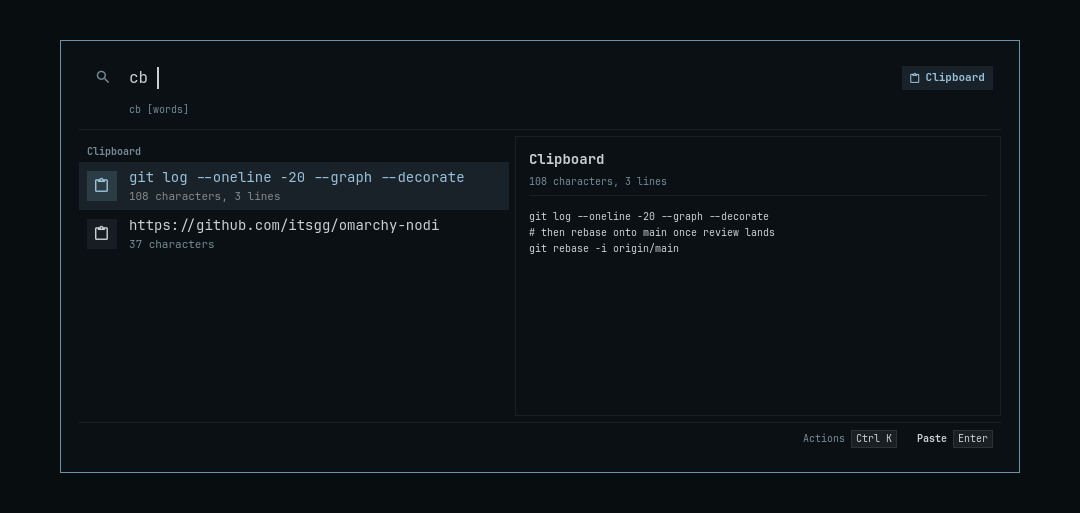
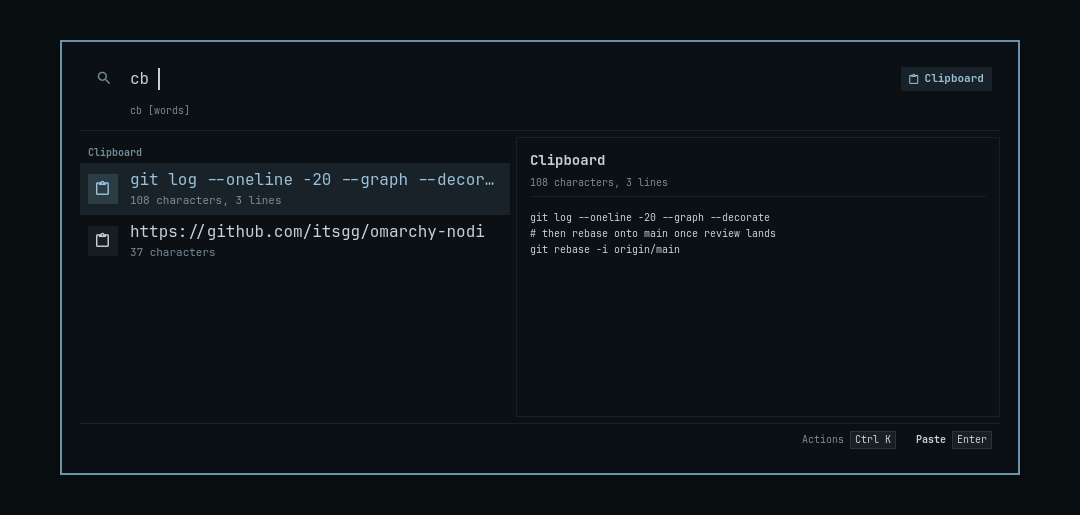
look: the menu's row names, 52 px rows and a 2 px border

diff --git a/components/Look.qml b/components/Look.qml
@@ -13,7 +13,8 @@ QtObject {
   property color background: Color.menu.background
   property color foreground: Color.menu.text
   property color border: Color.menu.border
-  property var borderSpec: Border.surfaceSpec("menu", "border", border, Style.spacing.hairline)
+  // Two pixels, as the shell's popups draw theirs (Menu.qml, Clipboard.qml).
+  property var borderSpec: Border.surfaceSpec("menu", "border", border, Math.max(1, Style.space(2)))
   // The selected row's border, as Omarchy's menu draws it (Menu.qml): none
   // in a theme that sets no [menu] selected-border, as most do (item 24).
   readonly property var selectedBorderSpec: Border.surfaceSpec("menu", "selected-border", Color.menu.selectedBorder, 0)
@@ -42,7 +43,10 @@ QtObject {
   property int contentMargin: Style.spacing.panelPadding
   readonly property int inputFont: Style.font.heading
   property int inputHeight: Math.max(Style.space(38), inputFont + Style.spacing.controlPaddingY * 2)
-  property int rowHeight: Math.max(Style.space(48), Style.font.title + Style.font.bodySmall + Style.spacing.md * 2)
+  // A heading-size name over a small subtitle needs about 8 px above and
+  // below: 48 crowded the two lines, and the menu's 58 cost 70 px on a full
+  // list (renders compared 2026-10-05).
+  property int rowHeight: Math.max(Style.space(52), Style.font.heading + Style.font.bodySmall + Style.spacing.md * 2)
   property int heroHeight: Math.max(Style.space(76), Style.font.displayLarge + Style.font.bodySmall + Style.spacing.md * 3)
   property int sectionHeight: Math.max(Style.space(26), Style.font.caption + Style.spacing.md * 2)
   property int footerHeight: Math.max(Style.space(32), Style.font.caption + Style.spacing.md * 2)

diff --git a/components/ResultRow.qml b/components/ResultRow.qml
@@ -100,8 +100,10 @@ Item {
         text: rowItem.modelData.title
         color: rowItem.selected ? nodi.selectedInk : nodi.foreground
         font.family: nodi.fontFamily
-        font.pixelSize: rowItem.hero ? Style.font.displayLarge : Style.font.title
-        font.bold: rowItem.hero
+        // Omarchy's menu draws its rows' names so: heading size, Medium
+        // (Menu.qml; his ask 2026-10-05, to look as the menu Nodi took over).
+        font.pixelSize: rowItem.hero ? Style.font.displayLarge : Style.font.heading
+        font.weight: rowItem.hero ? Font.Bold : Font.Medium
         elide: Text.ElideRight
       }
 

diff --git a/components/ActionPalette.qml b/components/ActionPalette.qml
@@ -82,7 +82,8 @@ Column {
         text: actionItem.modelData.label
         color: actionItem.selected ? nodi.selectedInk : nodi.foreground
         font.family: nodi.fontFamily
-        font.pixelSize: Style.font.title
+        font.pixelSize: Style.font.heading
+        font.weight: Font.Medium
         elide: Text.ElideRight
       }
       Keycap {
